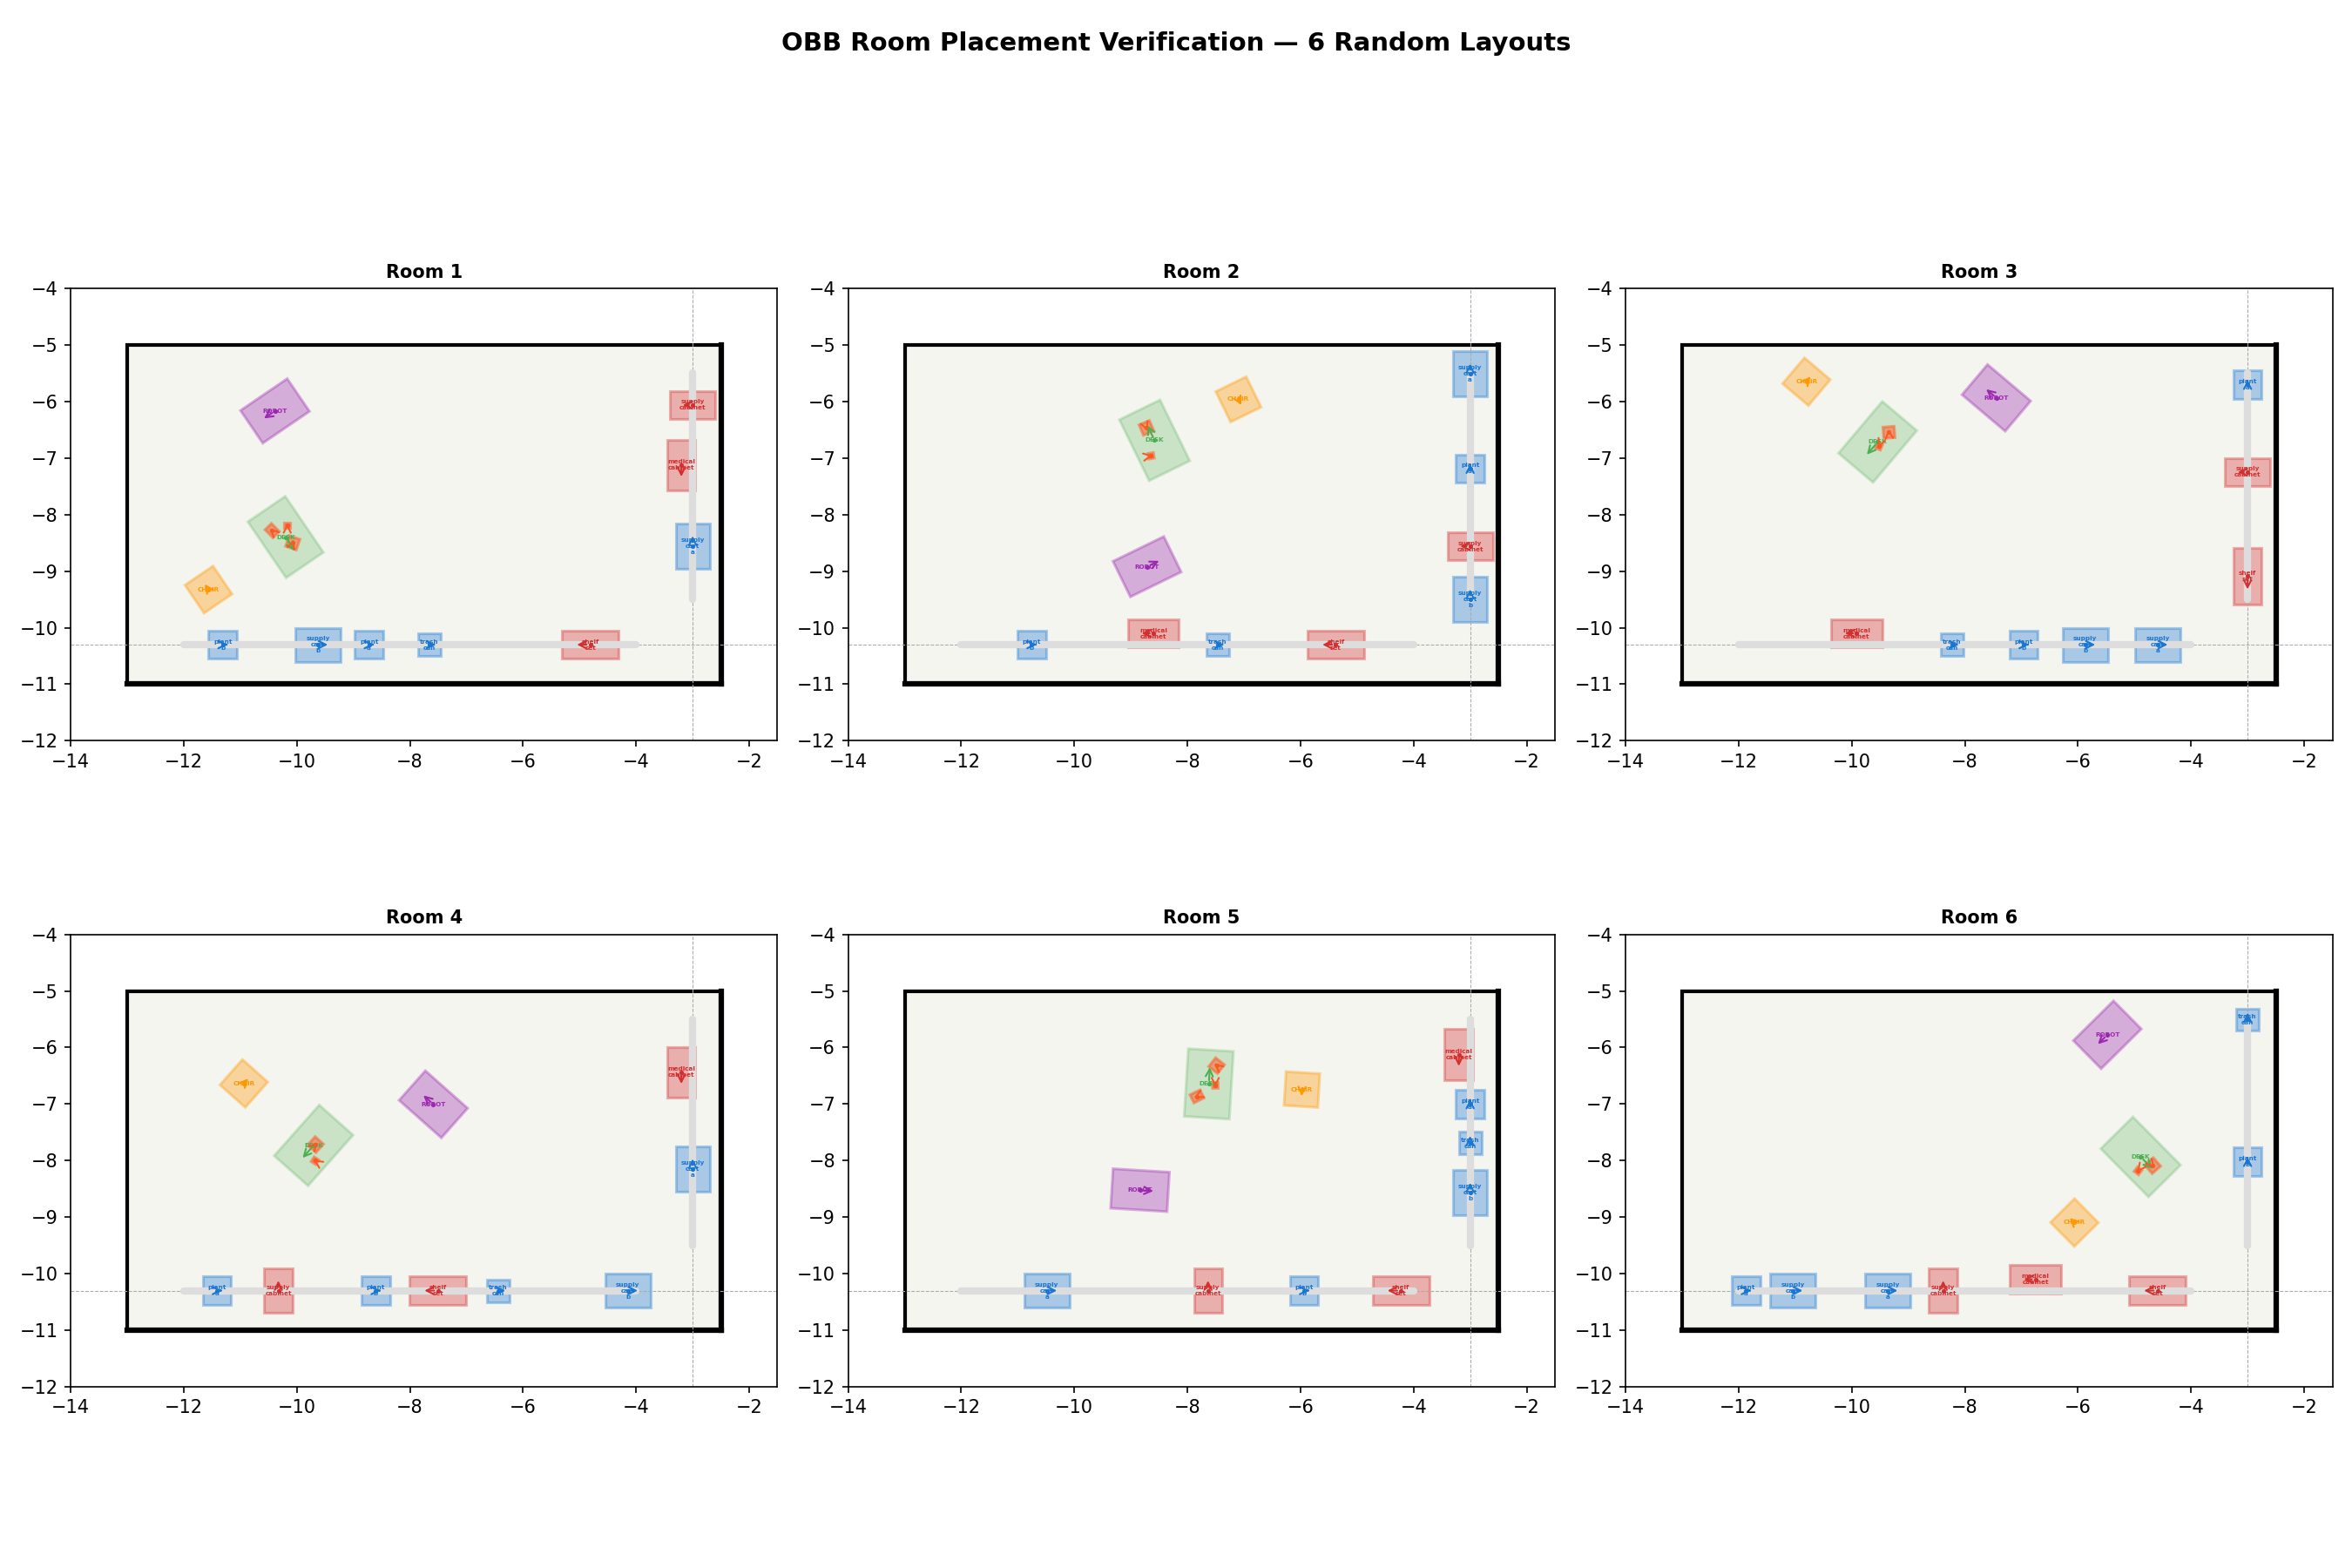
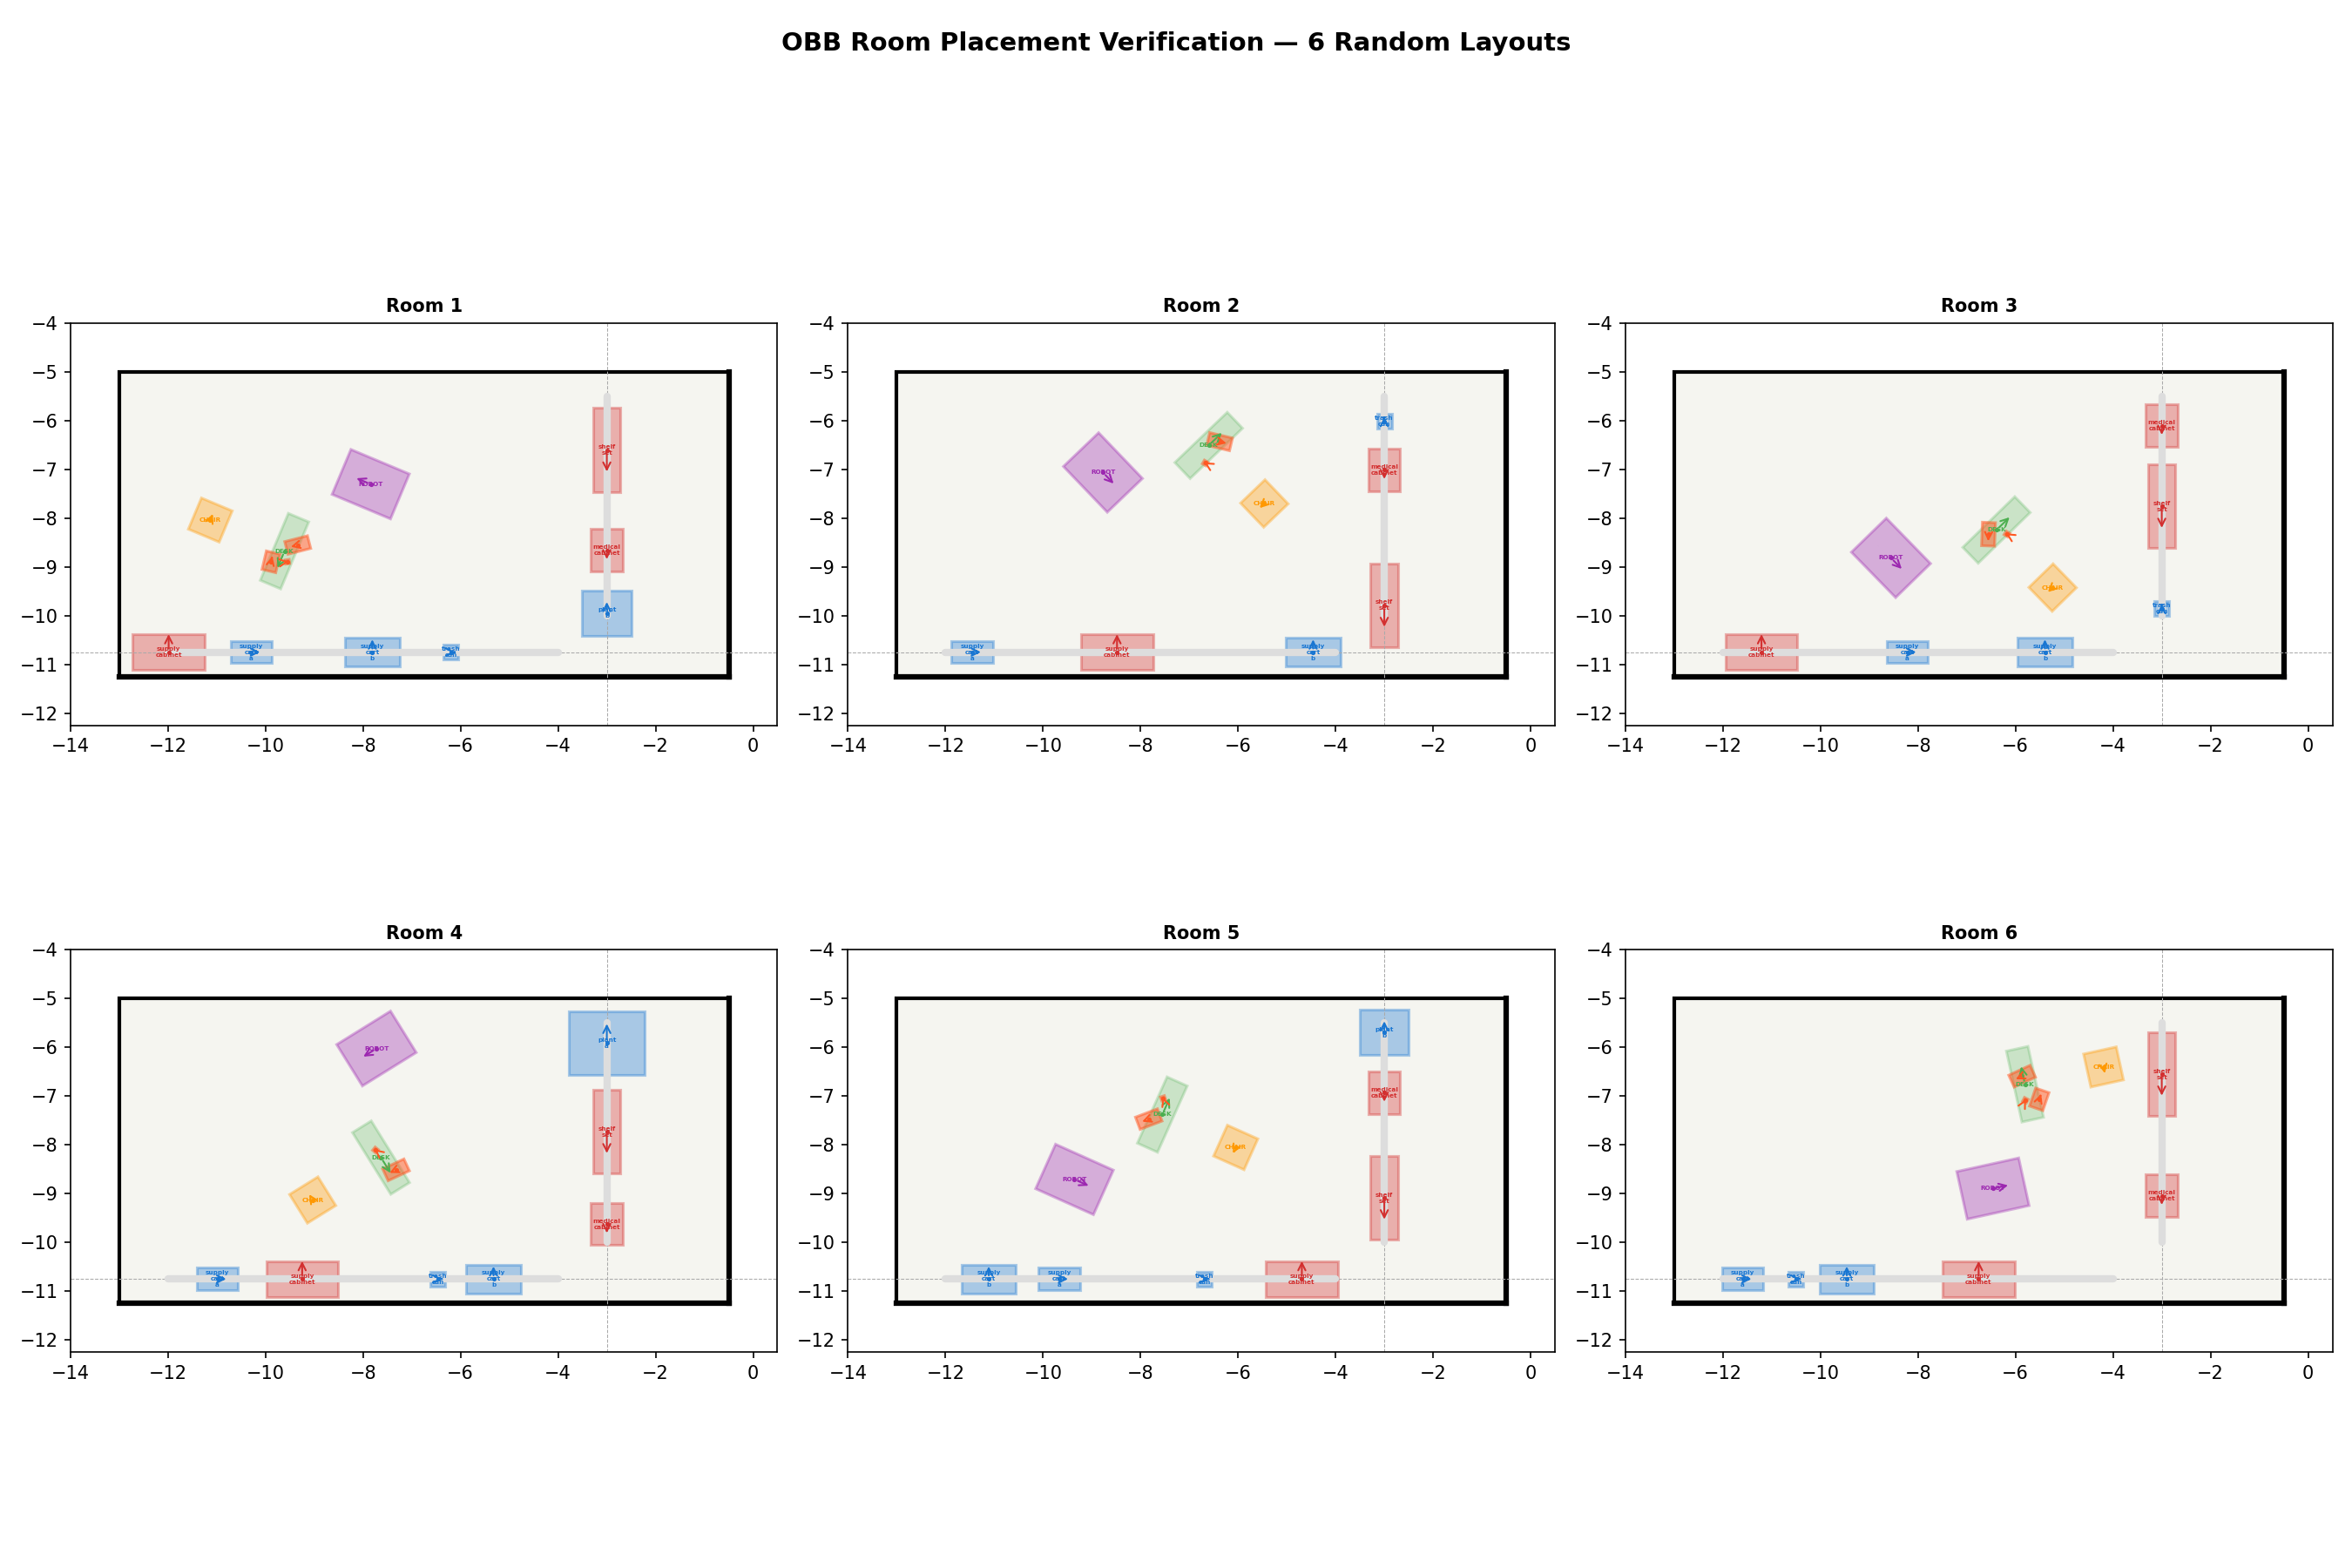
Calibrate placement bounds

diff --git a/room_randomizer_lab/constants.py b/room_randomizer_lab/constants.py
@@ -16,7 +16,7 @@ from typing import Dict, List, Tuple
 ROOM_X_MIN = -13.0
 # The floor mesh in new_base_room.usda spans x=[-13, -1], but the
 # room-facing right wall is authored at about x=-2.5.
-ROOM_X_MAX = -2.5
+ROOM_X_MAX = -0.5
 # Authored safe back-wall props sit around y=-10.75..-10.96 and
 # the back wall transform is farther back than the original -11.0 limit.
 ROOM_Y_MIN = -11.25
@@ -148,46 +148,47 @@ class WallPropMeta:
 WALL_PROP_META: Dict[str, WallPropMeta] = {
     "medical_cabinet": WallPropMeta(
         "SM_MedicalCabinet_01a",
-        bbox=BBox(half_w=0.55, half_d=0.35),
+        bbox=BBox(half_w=0.436, half_d=0.328),
         tall=True,
-        wall_offset=-0.50,
+        wall_offset=-0.172,
         yaw_offset=math.pi,
         allowed_walls=("right",),
     ),
     "shelf_set": WallPropMeta(
         "SM_ShelfSet_01a",
-        bbox=BBox(half_w=0.65, half_d=0.35),
+        bbox=BBox(half_w=0.861, half_d=0.280),
         tall=True,
-        wall_offset=-1.70,
+        wall_offset=-0.220,
         yaw_offset=math.pi,
         allowed_walls=("right",),
     ),
     "supply_cabinet": WallPropMeta(
         "SM_SupplyCabinet_01c",
-        bbox=BBox(half_w=0.50, half_d=0.35),
+        bbox=BBox(half_w=0.367, half_d=0.737),
         tall=True,
+        wall_offset=0.167,
         yaw_offset=math.pi / 2,
         allowed_walls=("back",),
     ),
     "trash_can": WallPropMeta(
         "SM_TrashCan",
-        bbox=BBox(half_w=0.25, half_d=0.25),
+        bbox=BBox(half_w=0.150, half_d=0.150),
     ),
     "plant_a": WallPropMeta(
         "SM_Plant01",
-        bbox=BBox(half_w=0.35, half_d=0.35),
+        bbox=BBox(half_w=0.652, half_d=0.771),
     ),
     "plant_b": WallPropMeta(
         "SM_Plant02",
-        bbox=BBox(half_w=0.35, half_d=0.35),
+        bbox=BBox(half_w=0.469, half_d=0.504),
     ),
     "supply_cart_a": WallPropMeta(
         "SM_SupplyCart_02a",
-        bbox=BBox(half_w=0.55, half_d=0.40),
+        bbox=BBox(half_w=0.421, half_d=0.228),
     ),
     "supply_cart_b": WallPropMeta(
         "SM_SupplyCart_03a",
-        bbox=BBox(half_w=0.55, half_d=0.40),
+        bbox=BBox(half_w=0.298, half_d=0.556),
         yaw_offset=math.pi / 2,
     ),
 }
@@ -196,8 +197,8 @@ WALL_PROP_META: Dict[str, WallPropMeta] = {
 # Table group bounding boxes
 # ============================================================
 
-DESK_BBOX = BBox(half_w=0.70, half_d=0.45)
-CHAIR_BBOX = BBox(half_w=0.40, half_d=0.40)
+DESK_BBOX = BBox(half_w=0.745, half_d=0.227)
+CHAIR_BBOX = BBox(half_w=0.347, half_d=0.343)
 ROBOT_BBOX = BBox(half_w=0.65, half_d=0.50)
 
 # ============================================================
@@ -212,9 +213,9 @@ class TablePropMeta:
 
 
 TABLE_PROP_META: Dict[str, TablePropMeta] = {
-    "coffee_cup":   TablePropMeta(bbox=BBox(half_w=0.05, half_d=0.05)),
-    "desk_lamp":    TablePropMeta(bbox=BBox(half_w=0.10, half_d=0.10)),
-    "box_portable": TablePropMeta(bbox=BBox(half_w=0.10, half_d=0.08)),
+    "coffee_cup":   TablePropMeta(bbox=BBox(half_w=0.043, half_d=0.043)),
+    "desk_lamp":    TablePropMeta(bbox=BBox(half_w=0.241, half_d=0.134)),
+    "box_portable": TablePropMeta(bbox=BBox(half_w=0.195, half_d=0.145)),
 }
 
 # ============================================================